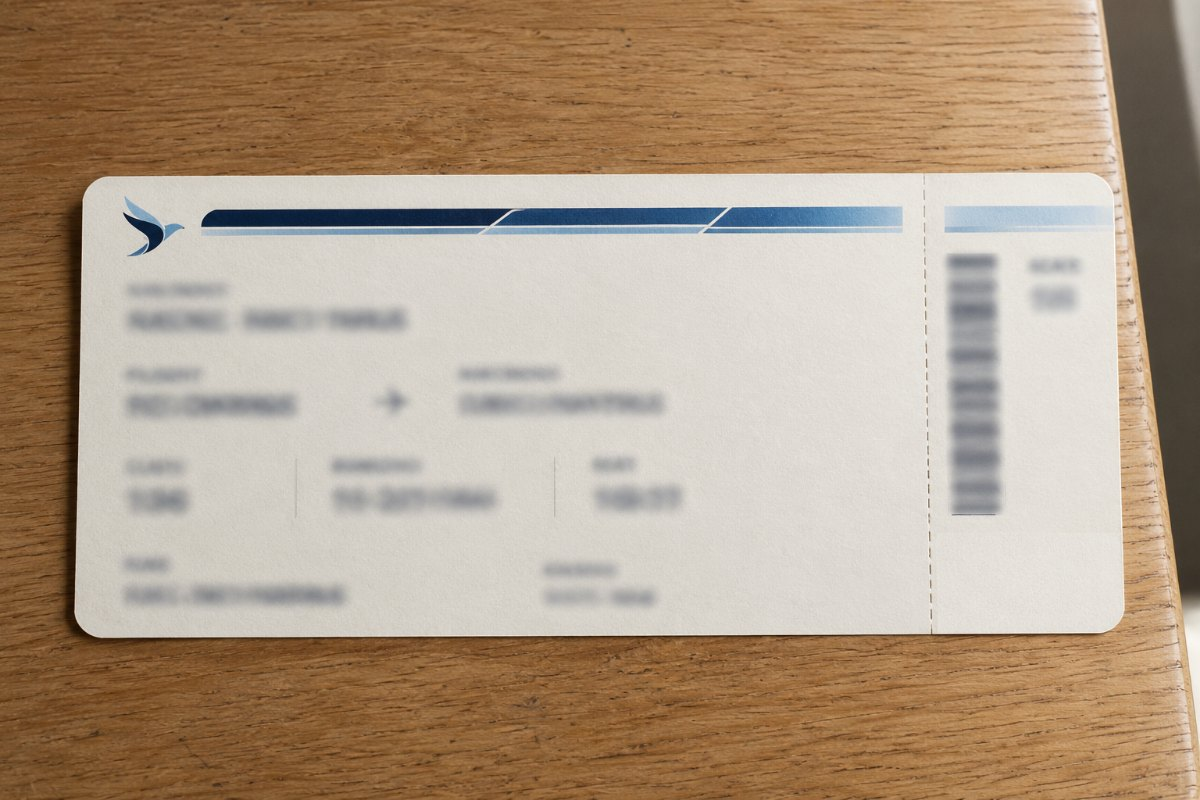
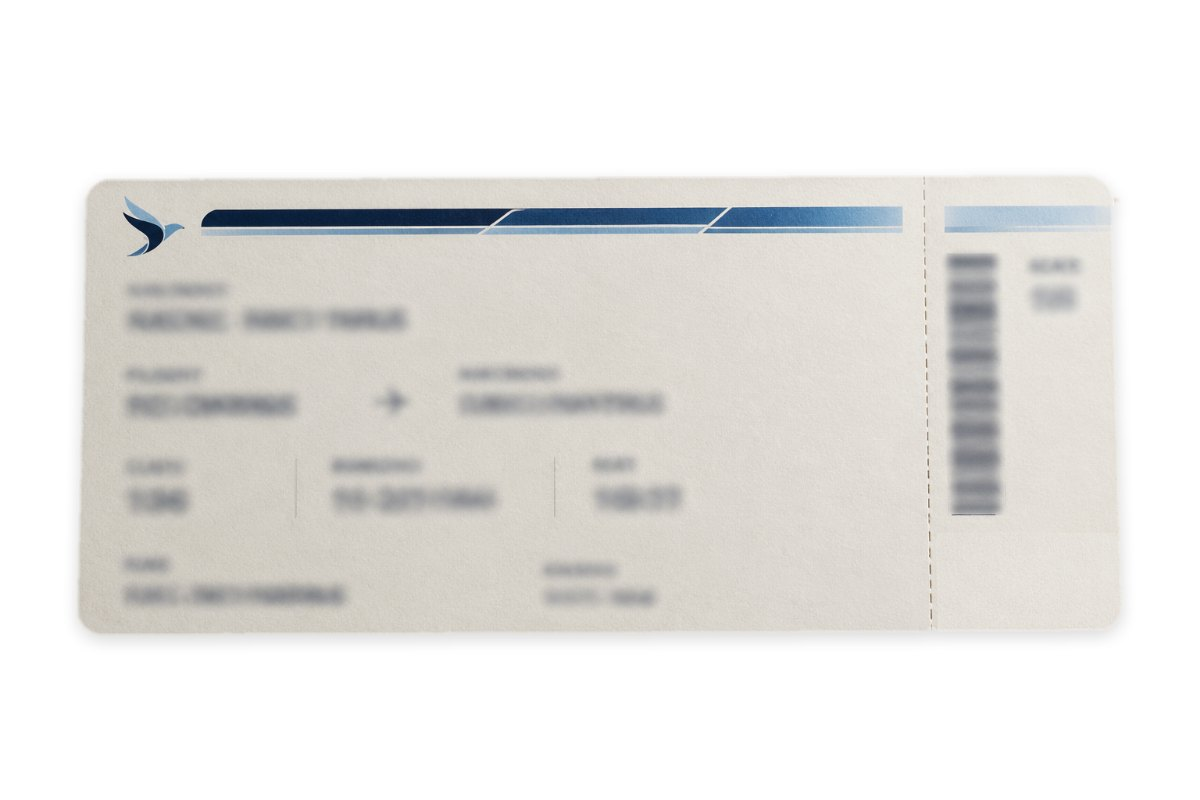
odyssey: v0.17.5 — 폰 앱 라벨 간격·가독성 · 잠금화면 실물 iOS 크기 · 탑승권 흰배경 누끼+힌트 아이콘 2줄 1.88배 · 셀로판 겹침 캡션 삭제

diff --git a/odyssey/index.html b/odyssey/index.html
@@ -293,28 +293,53 @@ body.dbg .ifeHot:active{box-shadow:0 0 0 2px rgba(255,255,255,.95)}
 .pStatus{display:flex;justify-content:space-between;padding:11px 18px 0;font-size:10px;font-weight:600;color:var(--n8)}
 .pBody{flex:1;display:flex;flex-direction:column;min-height:0;overflow:hidden}
 .pApps{display:grid;grid-template-columns:repeat(4,1fr);gap:16px 4px;padding:28px 12px 0}
-.pApp{background:none;border:0;padding:0;display:flex;flex-direction:column;align-items:center;gap:5px}
+/* ★v0.17.5 [지시1] 라벨을 아이콘 바로 아래로 — 전엔 안 보이는 설치 진행바(3px+여백 3px)가
+   아이콘과 라벨 사이에 자리를 차지해 간격이 16px 이나 됐다. 진행바를 흐름에서 빼고(아래 .dlbar)
+   flex gap 0 + 라벨 margin-top 3px + line-height 1.25 → 아이콘 아래끝~글자 약 4px (iOS 홈 수준). */
+.pApp{background:none;border:0;padding:0;display:flex;flex-direction:column;align-items:center;gap:0}
 .pApp .ico{width:52px;height:52px;border-radius:22%;overflow:hidden;background:var(--n3);position:relative}
 .pApp .ico img{width:100%;height:100%;object-fit:cover}
-.pApp .lbl{font-size:9px;color:var(--n8);letter-spacing:.2px}
+/* ★v0.17.5 [지시2] 밝은 배경사진(동자승 석상) 위에서도 읽히게 — 회색(--n8) → 흰색 + 얇은 그림자 */
+.pApp .lbl{font-size:9px;line-height:1.25;margin-top:3px;color:#fff;font-weight:500;letter-spacing:.2px;
+  text-shadow:0 1px 2px rgba(0,0,0,.62), 0 0 3px rgba(0,0,0,.45)}
 /* ★v0.13.3 배지 래퍼 — clip 없는 상자. 배지는 아이콘 우상단 모서리에 살짝 겹쳐 온전한 원으로 */
 .pApp .icoWrap{position:relative;width:52px;height:52px;overflow:visible}
 .pApp .badge{position:absolute;width:18px;height:18px;border-radius:50%;background:var(--n9);color:var(--n0);
   font-size:10px;font-weight:700;display:grid;place-items:center;border:1.5px solid #fff;box-shadow:0 1px 3px rgba(0,0,0,.5);
   right:-3px;top:-3px;z-index:3;line-height:1}
-/* v0.2 설치 진행바: 아이콘 바로 아래, 아이콘 가로폭 */
-.pApp .dlbar{width:52px;height:3px;border-radius:2px;background:rgba(255,255,255,.2);overflow:hidden;margin-top:3px}
+/* v0.2 설치 진행바: 아이콘 바로 아래, 아이콘 가로폭
+   ★v0.17.5 .icoWrap 안에 절대배치 — 흐름에서 빠져 라벨 간격에 영향을 주지 않는다(전 16px → 4px). */
+.pApp .dlbar{position:absolute;left:0;top:calc(100% + 1px);width:52px;height:3px;border-radius:2px;
+  background:rgba(0,0,0,.35);box-shadow:0 0 0 1px rgba(255,255,255,.18);overflow:hidden;z-index:2}
 .pApp .dlbar i{display:block;height:100%;width:0;background:#7fbf8a;transition:width .1s linear}
+/* 설치가 도는 동안(=진행바가 보이는 동안)만 라벨을 아래로 내려 진행바와 겹치지 않게 */
+.pApp.dl .lbl{margin-top:9px}
 .pApp .badge.dlb{background:var(--n8);color:var(--n0);font-size:11px;line-height:1}
 .pApp.locked .ico{filter:grayscale(1) brightness(.65)}
+/* ★v0.17.5 [지시5] 잠금·암호 입력 화면 크기 재조정 — 게임 폰 화면은 286px 폭으로 실제 아이폰
+   (16 Pro, 402×874pt)의 71.1% 축소 모형이다. 지금까지 요소를 그 71% 안에서 "폰 화면 대비 비율"로
+   잡아 실기기에서 iOS 보다 29% 작게 보였다. 이번엔 실물 iOS pt 값을 **px 1:1** 로 넣되
+   프레임 폭·높이에 안 들어가는 것만 클램프한다(아래 각 항목 주석 = 실물 → 환산 근거). */
 .pLock{flex:1;display:flex;flex-direction:column;align-items:center;justify-content:center;gap:14px;padding:12px}
-.pLock .clock{font-size:38px;font-weight:200;letter-spacing:-1px;color:var(--n9)}
+/* 실물: iOS16+ 잠금 시계 96pt(화면 높이 11.0%) → 프레임 높이 636px 의 10.1% = 64px 로 클램프 */
+/* line-height 1.50 = 96px — 64px 시스템 폰트의 실제 글자상자(chromium 87 · webkit 92)를 담는 최소값
+   (verify-overflow 의 "글자가 상자 밖" 기준). 글자는 상자 안에서 세로 가운데라 보이는 크기는 그대로. */
+.pLock .clock{font-size:64px;line-height:1.50;font-weight:200;letter-spacing:-2px;color:#fff;
+  text-shadow:0 1px 4px rgba(0,0,0,.5), 0 0 10px rgba(0,0,0,.35)}
+/* 실물: "암호 입력" 17pt → 17px (1:1) */
+.pLockHint{font-size:17px;line-height:1.55;color:#fff;letter-spacing:.2px;
+  text-shadow:0 1px 3px rgba(0,0,0,.55), 0 0 6px rgba(0,0,0,.4)}
+/* 실물: 입력 점 지름 12pt · 중심 간격 24pt → 13px · 중심 간격 26px (1:1 + 밝은 배경 가독 보정) */
 .pDots{display:flex;gap:13px}
-.pDots i{width:11px;height:11px;border-radius:50%;border:1px solid var(--n8)}
-.pDots i.on{background:var(--n8)}
-.pKeys{display:grid;grid-template-columns:repeat(3,1fr);gap:9px;width:186px}
-.pKey{width:56px;height:56px;border-radius:50%;background:rgba(255,255,255,.09);border:0;font-size:19px;font-weight:400;color:#fff}
-.pKey:active{background:rgba(255,255,255,.24)}
+.pDots i{width:13px;height:13px;border-radius:50%;border:1.5px solid #fff;box-shadow:0 1px 3px rgba(0,0,0,.45)}
+.pDots i.on{background:#fff}
+/* 실물: 키패드 원 지름 75pt · 가로 간격 23pt(합 271pt) → 286px 프레임에 1:1 이면 좌우 여백이 7px 밖에
+   안 남아 66px · 간격 14px(합 226px · 좌우 30px)로 클램프. 숫자는 실물 36pt(지름의 48%) → 26px(39%) */
+.pKeys{display:grid;grid-template-columns:repeat(3,1fr);gap:14px;width:226px}
+.pKey{width:66px;height:66px;border-radius:50%;background:rgba(255,255,255,.14);border:0;font-size:26px;font-weight:300;color:#fff;
+  text-shadow:0 1px 3px rgba(0,0,0,.45)}
+.pKey:active{background:rgba(255,255,255,.30)}
+.pLock .lockMsg{text-shadow:0 1px 3px rgba(0,0,0,.55)}
 .pKey.blank{background:none}
 .pTop{display:flex;align-items:center;gap:8px;padding:9px 10px;background:var(--n2);border-bottom:1px solid var(--line);font-size:12px;font-weight:600;color:var(--n8)}
 .pBack{background:none;border:0;font-size:16px;padding:0 4px;color:var(--n8)}
@@ -11008,7 +11033,7 @@ function findAlignmentPattern(matrix, alignmentPatternQuads, topRight, topLeft, 
 (function () {
   "use strict";
 
-  var BUILD = "ODY-S1-20260913-0141";
+  var BUILD = "ODY-S1-20260913-0839";
   var LSKEY = "odyssey.s1.v1";
 
   var qs = new URLSearchParams(location.search);
@@ -12339,10 +12364,13 @@ function findAlignmentPattern(matrix, alignmentPatternQuads, topRight, topLeft, 
     tileCell: { x: 59.5, y: 33.0, w: 21.5, h: 32.0 }
   };
 
+  /* ★v0.17.5 [지시2·3] 배경이 흰색으로 바뀌고(누끼) 아이콘은 2줄×3개로 커졌다.
+     새 이미지 실측(원본 %): 절취선 77.28 · 스텁 인쇄물 아래끝 64.26 · 카드 오른끝 93.85 · 카드 아래끝 80.27
+     → 빈 여백 = x 77.6~93.8 · y 64.9~79.8 안에 여유를 두고 iconRow 를 다시 잡았다. */
   var TICKET = {
     img: "ticket_bg.jpg", nw: 1200, nh: 800,
     crop: { x: 3.5, y: 18.0, w: 93.0, h: 65.0 },
-    iconRow: { x: 77.5, y: 68.0, w: 15.5, h: 8.0 }
+    iconRow: { x: 78.0, y: 65.8, w: 14.6, h: 12.8 }
   };
 
   /* ★v0.16.3 [지시7] 게임카드 사진(gamecard.jpg 900×567) 오른쪽 흰 라운드 상자 2개 —
@@ -14680,7 +14708,7 @@ function findAlignmentPattern(matrix, alignmentPatternQuads, topRight, topLeft, 
     var bigClock = el("div", "clock", nowHM());
     clockNodes.push(bigClock);
     box.appendChild(bigClock);
-    box.appendChild(el("div", null, "비밀번호 입력"));
+    box.appendChild(el("div", "pLockHint", "비밀번호 입력"));   /* ★v0.17.5 [지시5] 크기 지정용 클래스 */
     var dots = el("div", "pDots");
     for (var i = 0; i < 4; i++) dots.appendChild(el("i"));
     box.appendChild(dots);
@@ -14737,11 +14765,13 @@ function findAlignmentPattern(matrix, alignmentPatternQuads, topRight, topLeft, 
     icoWrap.appendChild(ico);
     if (opts && opts.badge) icoWrap.appendChild(el("div", "badge", opts.badge));
     if (opts && opts.dlBadge) icoWrap.appendChild(el("div", "badge dlb", "\u2193"));
-    b.appendChild(icoWrap);
-    /* v0.2: 진행바는 아이콘 바로 아래, 아이콘 가로폭만큼 */
+    /* v0.2: 진행바는 아이콘 바로 아래, 아이콘 가로폭만큼
+       ★v0.17.5 [지시1] icoWrap 안(절대배치)으로 옮겼다 — 흐름에 두면 안 보여도 3+3px 자리를
+       차지해 아이콘~라벨 간격이 16px 이나 됐다. 이제 라벨은 아이콘 바로 아래 4px. */
     var bar = el("div", "dlbar"); bar.appendChild(el("i"));
-    if (!(opts && opts.dl)) bar.style.visibility = "hidden";
-    b.appendChild(bar);
+    if (!(opts && opts.dl)) bar.style.visibility = "hidden"; else b.classList.add("dl");
+    icoWrap.appendChild(bar);
+    b.appendChild(icoWrap);
     b.appendChild(el("div", "lbl", label));
     b.onclick = function () { G.sfxTap(); opts && opts.onTap && opts.onTap(b); };
     return b;
@@ -14798,6 +14828,7 @@ function findAlignmentPattern(matrix, alignmentPatternQuads, topRight, topLeft, 
     if (badge) badge.remove();
     var bar = node.querySelector(".dlbar");
     bar.style.visibility = "visible";
+    node.classList.add("dl");                 /* ★v0.17.5 진행바가 보이는 동안만 라벨을 아래로 */
     var fill = bar.querySelector("i");
     var p = 0, T = 2400, t0 = Date.now();
     G.beep(520, 0.06, "sine", 0.07);
@@ -14809,7 +14840,7 @@ function findAlignmentPattern(matrix, alignmentPatternQuads, topRight, topLeft, 
         G.setFlag("mgInstalled");
         node.classList.remove("locked");
         G.sfxOk();
-        setTimeout(function () { bar.style.visibility = "hidden"; go("home"); }, 500);
+        setTimeout(function () { bar.style.visibility = "hidden"; node.classList.remove("dl"); go("home"); }, 500);
       }
     }, 60);
   }
@@ -16474,12 +16505,19 @@ function findAlignmentPattern(matrix, alignmentPatternQuads, topRight, topLeft, 
     tv: '<rect x="2.6" y="4.2" width="18.8" height="12.6" rx="2.2" fill="none" stroke="' + TICK_INK + '" stroke-width="2.1"/>' +
         '<rect x="11.1" y="16.8" width="1.8" height="3"/><rect x="7.4" y="19.8" width="9.2" height="1.9" rx=".9"/>'
   };
+  /* ★v0.17.5 [지시2] 아이콘이 너무 작다(북쑥) — 한 줄 6개로는 카드 여백(절취선 x77.3% ~
+     카드 오른끝 x93.8% = 16.5%) 안에서 더 못 키운다. **2줄 × 3개**로 바꾸고 셀을 24 → 48.
+     읽는 순서는 그대로(왼→오, 위→아래). 실측 렌더 31.0px → 58.2px = 1.88배. */
+  var TICK_COLS = 3, TICK_CELL = 48, TICK_GAPX = 14, TICK_GAPY = 12;
   function tickIconsSVG(ids) {
-    var n = ids.length, gap = 8, cell = 24, W = n * cell + (n - 1) * gap, H = 30;
+    var cols = Math.min(TICK_COLS, ids.length), rows = Math.ceil(ids.length / cols);
+    var W = cols * TICK_CELL + (cols - 1) * TICK_GAPX;
+    var H = rows * TICK_CELL + (rows - 1) * TICK_GAPY;
     var out = '<svg viewBox="0 0 ' + W + ' ' + H + '" width="100%" height="100%" preserveAspectRatio="xMidYMid meet" xmlns="http://www.w3.org/2000/svg">';
     out += '<g fill="' + TICK_INK + '">';
     ids.forEach(function (id, i) {
-      out += '<g transform="translate(' + (i * (cell + gap)) + ',3) scale(' + (cell / 24).toFixed(4) + ')" data-ic="' + id + '">' + (TICK_PICTO[id] || '') + '</g>';
+      var cx = (i % cols) * (TICK_CELL + TICK_GAPX), cy = ((i / cols) | 0) * (TICK_CELL + TICK_GAPY);
+      out += '<g transform="translate(' + cx + ',' + cy + ') scale(' + (TICK_CELL / 24).toFixed(4) + ')" data-ic="' + id + '">' + (TICK_PICTO[id] || '') + '</g>';
     });
     out += '</g></svg>';
     return out;
@@ -16493,7 +16531,7 @@ function findAlignmentPattern(matrix, alignmentPatternQuads, topRight, topLeft, 
         '<div style="font-size:11px;letter-spacing:2px;color:#7d776c">MARU AIR</div>' +
         '<div style="font-size:19px;font-weight:800;margin:4px 0 8px">ICN → DPS</div>' +
         '<div style="display:flex;gap:14px;font-size:12px"><div><b>SEAT</b><br>23A</div><div><b>GATE</b><br>27</div><div><b>BOARDING</b><br>09:10</div></div>' +
-        '<div style="position:absolute;right:10px;bottom:8px;width:42%;height:16px">' + tickIconsSVG(DATA.ANS.p3) + '</div>';
+        '<div style="position:absolute;right:10px;bottom:8px;width:34%;height:34px">' + tickIconsSVG(DATA.ANS.p3) + '</div>';
       openZoom({ id: "ticket", title: "탑승권", node: node, cap: "탑승권." });
       return;
     }
@@ -16686,8 +16724,9 @@ function findAlignmentPattern(matrix, alignmentPatternQuads, topRight, topLeft, 
     /* ★v0.17.4 [지시15B] 이미 맞춘 뒤에는 **정렬 완료 상태로 고정된 화면**만 뜬다(셀로판은 소모됨) */
     if (G.flag("p17") && hasImg(DATA.PAMPHLET_BG.img)) {
       pamCello = true;
-      openZoom({ id: "pamphlet", title: "팜플렛 + 셀로판", node: W.pamphlet({ fixed: true }),
-        cap: "셀로판과 팜플렛이 겹쳐 있다." });
+      /* ★v0.17.5 [지시4] "셀로판과 팜플렛이 겹쳐 있다." 삭제 — 겹친 건 플레이어 본인인데
+         남이 겹쳐 둔 듯한 서술이었다. 타이틀만 남기고 캡션은 비운다. */
+      openZoom({ id: "pamphlet", title: "팜플렛 + 셀로판", node: W.pamphlet({ fixed: true }), cap: "" });
       return;
     }
     if (!withCello) {
@@ -16720,7 +16759,8 @@ function findAlignmentPattern(matrix, alignmentPatternQuads, topRight, topLeft, 
         renderInv(); render();
       }
     });
-    openZoom({ id: "pamphlet", title: "팜플렛 + 셀로판", node: pam, cap: "셀로판과 팜플렛이 겹쳐 있다." });
+    /* ★v0.17.5 [지시4] 같은 이유로 캡션 삭제 */
+    openZoom({ id: "pamphlet", title: "팜플렛 + 셀로판", node: pam, cap: "" });
   };
 
   /* ★v0.17.1 "팜플렛 위에 셀로판을 올린다" 공통 처리 — 선택 해제 → 팝업 닫고 120ms 뒤 겹침 화면.

diff --git a/odyssey/sw.js b/odyssey/sw.js
@@ -1,5 +1,5 @@
 /* 비행기에서 내리고 싶다. — 오프라인 서비스워커 (자동 생성) */
-const CACHE = "odyssey-ODY-S1-20260913-0141";
+const CACHE = "odyssey-ODY-S1-20260913-0839";
 const PRECACHE = [
  "./",
  "./index.html",
